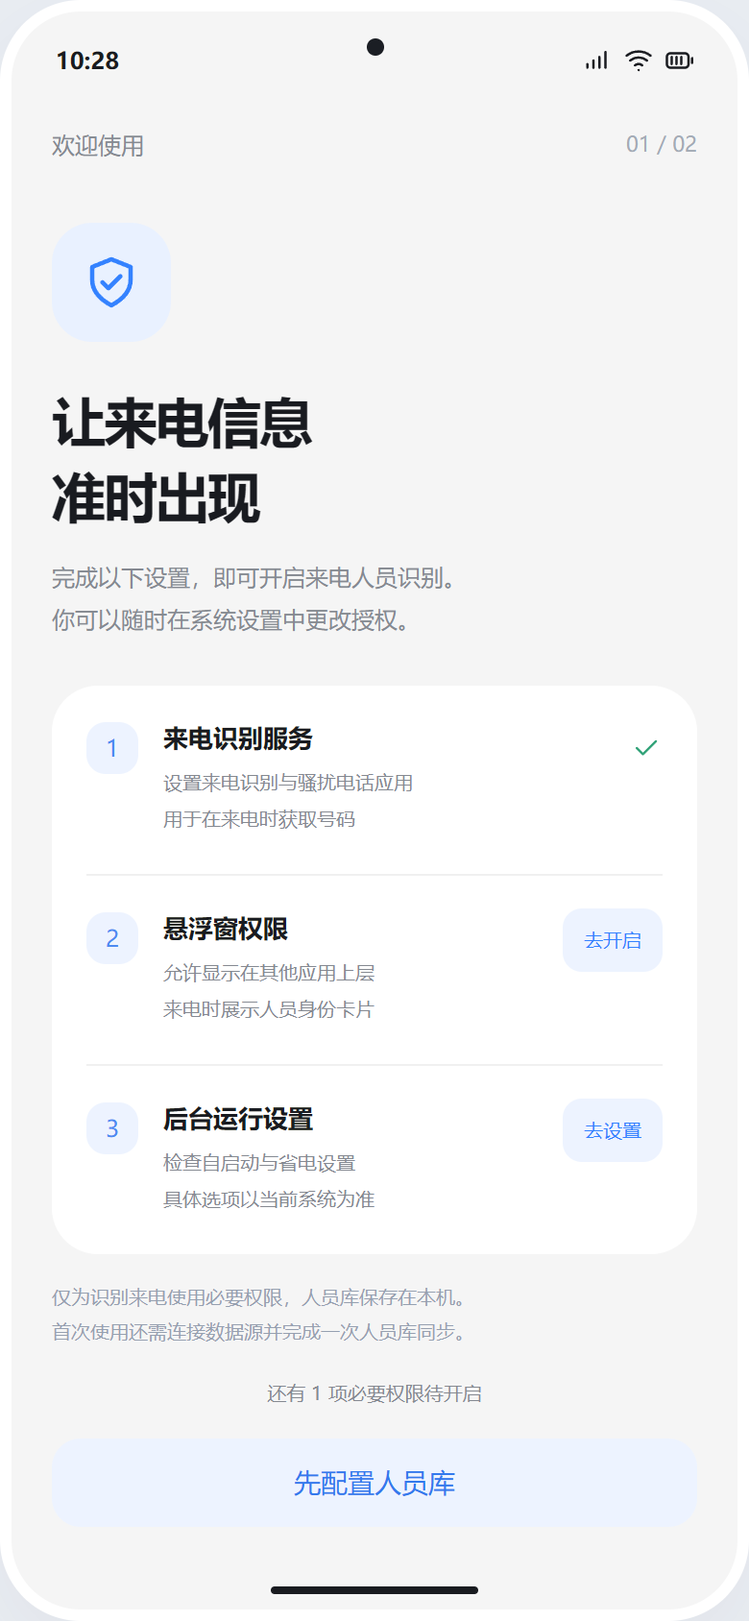
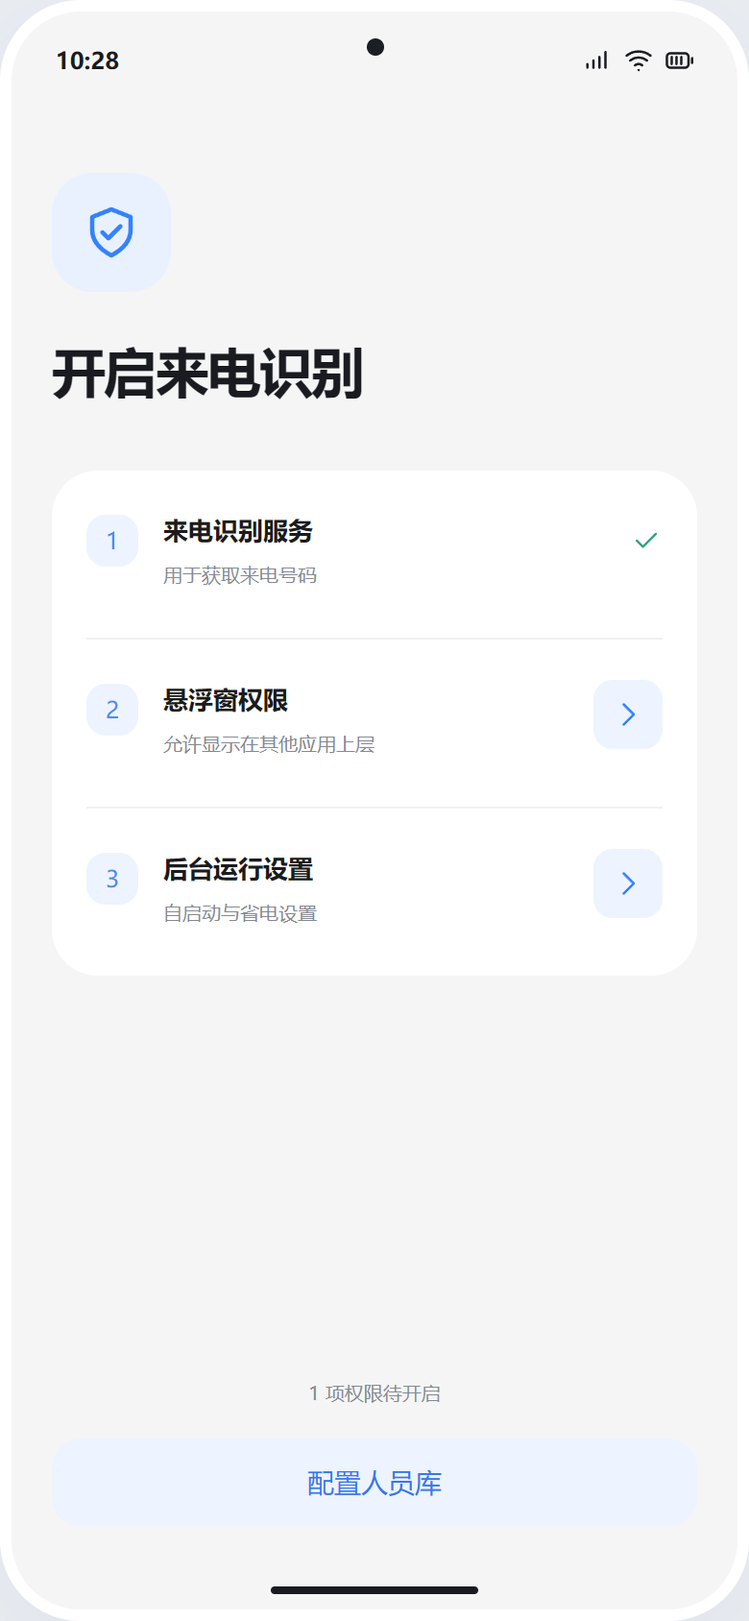
design: 精简界面文案并统一图标交互规范

diff --git a/docs/design/v1/index.html b/docs/design/v1/index.html
@@ -13,35 +13,40 @@
 #sync .backhead{margin-bottom:8px}#sync .subtitle{margin-bottom:15px}#sync .card{padding:17px 19px}#sync .sync-icon{width:46px;height:46px;margin-bottom:8px}#sync .sync-stats{margin:16px 0}#sync .section{margin-top:15px}#sync .setting-row{min-height:50px}#sync .statebox{padding:11px;margin-top:9px}#sync .footnote{margin:10px 0;font-size:9px}
 #appearance .mini-preview{padding:15px 17px 12px;margin-top:12px}#appearance .identity{margin-top:10px}#appearance .company{margin-top:13px}#appearance .setting-row{min-height:50px}#appearance .card{margin-bottom:12px}#appearance .segmented{margin-top:11px}#appearance .range{padding-top:6px}
 #directory .person-line{padding:16px 0}#directory .footnote{margin-top:12px}
+
+.nav{height:78px;align-items:center;padding:10px 17px 23px}.nav button{justify-content:center;min-width:48px;min-height:44px}.nav button.active{background:#eaf2ff}.nav svg{width:24px;height:24px}
+.segmented button{display:flex;justify-content:center;align-items:center;min-height:40px}.hero .iconbtn{color:#3482ff}.floating{padding-bottom:23px}.show-float{left:165px}.caption .iconbtn{margin-left:auto;min-height:24px;padding:0}.caption .iconbtn svg{width:17px;height:17px}.step button{display:flex;align-items:center;justify-content:center;width:36px;height:36px;padding:8px}.step button svg{width:18px;height:18px}
+#home .hero{margin-top:24px;padding:22px}#home .hero-title{margin-top:20px;margin-bottom:0}#home .metrics{margin-top:22px}#home .split{margin:18px 0}#home .section{margin-top:24px}#home .title{margin-top:5px}#home .topline{justify-content:flex-end}
+#directory .title,#appearance .title{margin-top:15px;margin-bottom:22px}#directory .person-line{padding:21px 0}#directory .search{margin-top:22px}#sync .card{margin-top:20px}#sync .sync-stats{margin:25px 0}#sync-button{display:flex;justify-content:center;align-items:center}#appearance .mini-preview{margin-bottom:24px}#appearance .setting-row{min-height:57px}#setup .card{margin-top:32px}#setup .step{padding:23px 0}
 </style>
 </head>
 <body><main class="board">
 <header class="mast"><div><div class="eyebrow">CALLHELPER / ANDROID</div><h1>来电知人<span style="font-weight:300;color:#99a7ba">，</span>一眼知悉。</h1><p>让每一次来电，都有清晰的身份。姓名、岗位、单位，即刻呈现。</p></div><div class="edition"><b>HyperOS × Miuix</b><br>界面设计 V1.0 · 2026.11.07<br>390 × 844 · 全部数据为虚构演示</div></header>
 <div class="grid">
-<section><div class="caption"><span>01</span> 首页 · 识别状态</div><article class="phone" id="home"><div data-status></div><div class="content"><div class="topline">来电识别助手<button class="iconbtn" data-jump="appearance" aria-label="打开设置" data-icon="settings"></button></div><h2 class="title">来电知人</h2><p class="subtitle">熟悉每一个，即将接通的名字。</p><div class="hero"><div class="row"><div class="shield" data-icon="shield"></div><span class="pill" id="home-state">● 已就绪</span></div><div class="hero-title">来电身份，清晰可见</div><div class="small">人员库已就绪，离线也能识别来电</div><button class="primary full" data-jump="incoming"><span data-icon="preview"></span>体验来电悬浮窗</button></div><div class="card" style="margin-top:14px"><div class="row"><span class="label">我的人员库</span><button class="iconbtn" data-jump="sync" aria-label="查看同步" data-icon="arrow"></button></div><div class="metrics"><div><div class="metric">12,860<em>人</em></div><span class="small">已同步人员</span></div><div><div class="metric">128<em>家</em></div><span class="small">覆盖单位</span></div></div><div class="split"></div><div class="row small"><span>今天 09:30 更新</span><span style="color:#31a278">数据已是最新</span></div></div><div class="section">最近识别 <span style="float:right;font-size:10px">仅保存在本机</span></div><div class="card compact"><div class="person-line" style="padding:0"><div class="avatar">林</div><div><b>林知远</b><span class="role">产品负责人</span><div class="small">星河科技有限公司</div></div><span class="recent-time">10:24</span></div></div></div><div data-nav="home"></div><div class="gesture"></div></article></section>
-<section><div class="caption"><span>02</span> 原来电页 + 独立信息悬浮窗</div><article class="phone call" id="incoming"><div data-status></div><div class="content"><div class="call-meta">原有电话 App · 来电背景示意</div><div class="number">138 0000 0001</div><div class="sim">SIM 1 · 中国移动</div><div class="call-orb" data-icon="person"></div></div><div class="floating" id="call-float"><div class="handle"></div><div class="floating-brand"><span><i data-icon="shield"></i>来电知人</span><button aria-label="隐藏本次悬浮窗" id="hide-float" data-icon="close"></button></div><div class="identity"><div class="avatar">林</div><div><div class="name">林知远</div><div class="role-chip">产品负责人</div></div></div><div class="company"><i data-icon="building"></i>星河科技有限公司</div><div class="department">产品中心</div><div class="float-bottom"><span>● 来自本地人员库</span><span>长按拖动位置</span></div></div><button class="show-float" id="show-float">重新显示身份卡片</button><div class="call-actions"><div><button class="reject" data-toast="这是系统来电界面的设计示意" aria-label="系统挂断示意" data-icon="phone"></button><span>挂断</span></div><div><button class="answer" data-toast="这是系统来电界面的设计示意" aria-label="系统接听示意" data-icon="phone"></button><span>接听</span></div></div><div class="system-label">背景为原来电页 · 仅白色卡片属于本应用</div><div class="gesture" style="background:#667e91"></div></article></section>
-<section><div class="caption"><span>03</span> 人员库 · 即搜即查</div><article class="phone directory" id="directory"><div data-status></div><div class="content"><div class="topline">离线查询<span data-icon="people"></span></div><h2 class="title">人员库</h2><div class="search"><i data-icon="search"></i><input id="search" aria-label="搜索姓名、电话号码、单位" placeholder="搜索姓名、电话号码、单位"></div><div class="tabs"><button class="active" data-filter="all">全部人员</button><button data-filter="星河科技">星河科技</button><button data-filter="云杉信息">云杉信息</button></div><div class="row" style="margin:0 7px 12px"><span class="small">演示人员</span><span class="small" id="result-count">4 位</span></div><div class="card" id="people-list"></div><div class="footnote">人员信息由单位人员库同步<br>最近更新于今天 09:30</div></div><div data-nav="directory"></div><div class="gesture"></div></article></section>
-<section><div class="caption"><span>04</span> 数据同步 · 更新与恢复</div><article class="phone" id="sync"><div data-status></div><div class="content"><div class="backhead"><button class="iconbtn" data-jump="home" data-icon="back" aria-label="返回首页"></button>数据管理</div><h2 class="title">数据同步</h2><p class="subtitle">更新一次，来电时随时可用。</p><div class="card"><div class="row"><div class="sync-icon" data-icon="database"></div><span class="pill" id="sync-pill">● 已同步</span></div><div class="sync-title" id="sync-title">人员库已是最新</div><div class="small" id="sync-message">上次同步 · 今天 09:30</div><div class="sync-stats"><div><b>12,860</b><span class="small">人员记录</span></div><div><b>128</b><span class="small">单位</span></div><div><b>2.4<span style="font-size:11px"> MB</span></b><span class="small">数据大小</span></div></div><button class="primary full" id="sync-button">立即同步</button></div><div class="section">同步设置</div><div class="card compact"><div class="setting-row"><div><div class="label">自动同步</div><div class="small">每日检查人员库更新</div></div><button class="switch on" role="switch" aria-checked="true" aria-label="自动同步"></button></div><div class="setting-row"><span class="label">仅在 WLAN 下同步</span><button class="switch on" role="switch" aria-checked="true" aria-label="仅在 WLAN 下同步"></button></div><div class="setting-row"><span class="label">数据源</span><button class="value iconbtn" data-toast="后端接口待对接，当前为设计演示">单位人员服务<i class="chevron" data-icon="arrow"></i></button></div></div><div class="statebox"><i data-icon="info"></i><div><b>更新失败也不影响已有识别</b><br>保留上次可用的人员库，网络恢复后重试。<br><button id="simulate-fail">查看同步失败状态</button></div></div><div class="footnote">加密下载人员库 · 在本机更新识别数据</div></div><div class="gesture"></div></article></section>
-<section><div class="caption"><span>05</span> 显示设置 · 深色预览</div><article class="phone" id="appearance"><div data-status></div><div class="content"><div class="topline">个性化显示<span data-icon="sliders"></span></div><h2 class="title">悬浮窗</h2><p class="subtitle" style="margin-bottom:15px">只展示重要信息，保持恰到好处。</p><div class="mini-preview" id="mini-preview"><div class="floating-brand"><span><i data-icon="shield"></i>来电知人</span><span>预览</span></div><div class="identity"><div class="avatar">林</div><div><div class="name">林知远</div><div class="role-chip" style="color:#8db6fa">产品负责人</div></div></div><div class="company"><i data-icon="building"></i>星河科技有限公司</div><div class="department">产品中心</div></div><div class="footnote" style="margin:8px 0 16px">深色效果预览 · 不影响系统来电界面</div><div class="card compact"><div class="setting-row" style="min-height:46px"><span class="label">显示来电悬浮窗</span><button class="switch on" id="overlay-switch" role="switch" aria-checked="true" aria-label="显示来电悬浮窗"></button></div><div class="split" style="margin:10px 0 13px"></div><span class="label" style="font-size:13px">外观</span><div class="segmented"><button data-theme="system">跟随系统</button><button data-theme="light">浅色</button><button class="active" data-theme="dark">深色</button></div></div><div class="card compact"><div class="row"><span class="label" style="font-size:13px">文字大小</span><span class="small" id="size-label">标准</span></div><div class="range"><span>小</span><input type="range" id="text-size" min="21" max="28" value="23" aria-label="文字大小"><span>大</span></div><div class="setting-row"><span class="label">显示部门</span><button class="switch on" id="department-switch" role="switch" aria-checked="true" aria-label="显示部门"></button></div><div class="setting-row"><div><span class="label">锁屏隐藏详细信息</span><div class="small">解锁后再显示姓名、岗位和单位</div></div><button class="switch on" role="switch" aria-checked="true" aria-label="锁屏隐藏详细信息"></button></div></div></div><div data-nav="appearance"></div><div class="gesture"></div></article></section>
-<section><div class="caption"><span>06</span> 首次使用 · 权限与准备</div><article class="phone" id="setup"><div data-status></div><div class="content"><div class="topline">欢迎使用<span style="font-size:11px;color:#a3aab5">01 / 02</span></div><div class="onboard-mark" data-icon="shield" style="margin-top:28px"></div><h2 class="title" style="font-size:28px">让来电信息<br>准时出现</h2><p class="subtitle" style="margin-top:12px">完成以下设置，即可开启来电人员识别。<br>你可以随时在系统设置中更改授权。</p><div class="card" style="padding:0 18px"><div class="step"><div class="step-index">1</div><div class="step-main"><div class="step-title">来电识别服务</div><div class="small">设置来电识别与骚扰电话应用<br>用于在来电时获取号码</div></div><div class="done" data-icon="check"></div></div><div class="step"><div class="step-index">2</div><div class="step-main"><div class="step-title">悬浮窗权限</div><div class="small">允许显示在其他应用上层<br>来电时展示人员身份卡片</div></div><button data-toast="原生应用将在此打开系统悬浮窗授权页">去开启</button></div><div class="step"><div class="step-index">3</div><div class="step-main"><div class="step-title">后台运行设置</div><div class="small">检查自启动与省电设置<br>具体选项以当前系统为准</div></div><button data-toast="原生应用将在此引导检查系统后台运行设置">去设置</button></div></div><div class="demo-note">仅为识别来电使用必要权限，人员库保存在本机。<br>首次使用还需连接数据源并完成一次人员库同步。</div></div><div class="bottom-cta"><div class="small">还有 1 项必要权限待开启</div><button class="secondary full" data-jump="sync">先配置人员库</button></div><div class="gesture"></div></article></section>
+<section><div class="caption"><span>01</span> 首页 · 识别状态</div><article class="phone" id="home"><div data-status></div><div class="content"><div class="topline"><button class="iconbtn" data-jump="appearance" aria-label="打开设置" data-icon="settings"></button></div><h2 class="title">来电知人</h2><div class="hero"><div class="row"><div class="shield" data-icon="shield"></div><button class="iconbtn" data-jump="incoming" aria-label="预览悬浮窗" title="预览悬浮窗" data-icon="preview"></button></div><div class="hero-title" id="home-state">识别已开启</div></div><div class="card" style="margin-top:14px"><div class="row"><span class="label">人员库</span><button class="iconbtn" data-jump="sync" aria-label="查看同步" data-icon="arrow"></button></div><div class="metrics"><div><div class="metric">12,860</div><span class="small">人员</span></div><div><div class="metric">128</div><span class="small">单位</span></div></div><div class="split"></div><div class="row small"><span>今天 09:30 更新</span><span style="color:#31a278" aria-label="已同步" title="已同步" data-icon="check"></span></div></div><div class="section">最近识别 </div><div class="card compact"><div class="person-line" style="padding:0"><div class="avatar">林</div><div><b>林知远</b><span class="role">产品负责人</span><div class="small">星河科技有限公司</div></div><span class="recent-time">10:24</span></div></div></div><div data-nav="home"></div><div class="gesture"></div></article></section>
+<section><div class="caption"><span>02</span> 原来电页 + 独立信息悬浮窗</div><article class="phone call" id="incoming"><div data-status></div><div class="content"><div class="call-meta">原有电话 App · 来电背景示意</div><div class="number">138 0000 0001</div><div class="sim">SIM 1 · 中国移动</div><div class="call-orb" data-icon="person"></div></div><div class="floating" id="call-float"><div class="handle"></div><div class="floating-brand"><span aria-label="来电知人" title="来电知人"><i data-icon="shield"></i></span><button aria-label="隐藏本次悬浮窗" id="hide-float" data-icon="close"></button></div><div class="identity"><div class="avatar">林</div><div><div class="name">林知远</div><div class="role-chip">产品负责人</div></div></div><div class="company"><i data-icon="building"></i>星河科技有限公司</div><div class="department">产品中心</div></div><button class="show-float" id="show-float" aria-label="重新显示身份卡片" title="重新显示身份卡片" data-icon="person"></button><div class="call-actions"><div><button class="reject" data-toast="这是系统来电界面的设计示意" aria-label="系统挂断示意" data-icon="phone"></button></div><div><button class="answer" data-toast="这是系统来电界面的设计示意" aria-label="系统接听示意" data-icon="phone"></button></div></div><div class="system-label">背景为原来电页 · 仅白色卡片属于本应用</div><div class="gesture" style="background:#667e91"></div></article></section>
+<section><div class="caption"><span>03</span> 人员库 · 即搜即查</div><article class="phone directory" id="directory"><div data-status></div><div class="content"><h2 class="title">人员库</h2><div class="search"><i data-icon="search"></i><input id="search" aria-label="搜索姓名、电话号码、单位" placeholder="搜索姓名、电话号码、单位"></div><div class="tabs"><button class="active" data-filter="all">全部人员</button><button data-filter="星河科技">星河科技</button><button data-filter="云杉信息">云杉信息</button></div><div class="row" style="margin:0 7px 12px"><span class="small" aria-label="人员" data-icon="people"></span><span class="small" id="result-count">4 位</span></div><div class="card" id="people-list"></div></div><div data-nav="directory"></div><div class="gesture"></div></article></section>
+<section><div class="caption"><span>04</span> 数据同步 · 更新与恢复<button class="iconbtn" id="simulate-fail" aria-label="预览同步失败" title="预览同步失败" data-icon="info"></button></div><article class="phone" id="sync"><div data-status></div><div class="content"><div class="backhead"><button class="iconbtn" data-jump="home" data-icon="back" aria-label="返回首页"></button></div><h2 class="title">数据同步</h2><div class="card"><div class="row"><div class="sync-icon" data-icon="database"></div><span class="pill" id="sync-pill" aria-label="已同步" data-icon="check"></span></div><div class="sync-title" id="sync-title">已同步</div><div class="small" id="sync-message">今天 09:30</div><div class="sync-stats"><div><b>12,860</b><span class="small">人员记录</span></div><div><b>128</b><span class="small">单位</span></div><div><b>2.4<span style="font-size:11px"> MB</span></b><span class="small">数据大小</span></div></div><button class="primary full" id="sync-button" aria-label="立即同步" title="立即同步" data-icon="refresh"></button></div><div class="section">同步设置</div><div class="card compact"><div class="setting-row"><div><div class="label">自动同步</div></div><button class="switch on" role="switch" aria-checked="true" aria-label="自动同步"></button></div><div class="setting-row"><span class="label">仅在 WLAN 下同步</span><button class="switch on" role="switch" aria-checked="true" aria-label="仅在 WLAN 下同步"></button></div><div class="setting-row"><span class="label">数据源</span><button class="value iconbtn" data-toast="后端接口待对接，当前为设计演示">单位人员服务<i class="chevron" data-icon="arrow"></i></button></div></div></div><div class="gesture"></div></article></section>
+<section><div class="caption"><span>05</span> 显示设置 · 深色预览</div><article class="phone" id="appearance"><div data-status></div><div class="content"><h2 class="title">悬浮窗</h2><div class="mini-preview" id="mini-preview"><div class="floating-brand"><span aria-label="来电知人" title="来电知人"><i data-icon="shield"></i></span><span aria-label="预览" title="预览" data-icon="preview"></span></div><div class="identity"><div class="avatar">林</div><div><div class="name">林知远</div><div class="role-chip" style="color:#8db6fa">产品负责人</div></div></div><div class="company"><i data-icon="building"></i>星河科技有限公司</div><div class="department">产品中心</div></div><div class="card compact"><div class="setting-row" style="min-height:46px"><span class="label">显示来电悬浮窗</span><button class="switch on" id="overlay-switch" role="switch" aria-checked="true" aria-label="显示来电悬浮窗"></button></div><div class="split" style="margin:10px 0 13px"></div><span class="label" style="font-size:13px">外观</span><div class="segmented"><button data-theme="system" aria-label="跟随系统" title="跟随系统" data-icon="system"></button><button data-theme="light" aria-label="浅色" title="浅色" data-icon="sun"></button><button class="active" data-theme="dark" aria-label="深色" title="深色" data-icon="moon"></button></div></div><div class="card compact"><div class="row"><span class="label" style="font-size:13px">文字大小</span><span class="small" id="size-label">标准</span></div><div class="range"><span>小</span><input type="range" id="text-size" min="21" max="28" value="23" aria-label="文字大小"><span>大</span></div><div class="setting-row"><span class="label">显示部门</span><button class="switch on" id="department-switch" role="switch" aria-checked="true" aria-label="显示部门"></button></div><div class="setting-row"><div><span class="label">锁屏隐藏详细信息</span></div><button class="switch on" role="switch" aria-checked="true" aria-label="锁屏隐藏详细信息"></button></div></div></div><div data-nav="appearance"></div><div class="gesture"></div></article></section>
+<section><div class="caption"><span>06</span> 首次使用 · 权限与准备</div><article class="phone" id="setup"><div data-status></div><div class="content"><div class="onboard-mark" data-icon="shield" style="margin-top:28px"></div><h2 class="title" style="font-size:28px">开启来电识别</h2><div class="card" style="padding:0 18px"><div class="step"><div class="step-index">1</div><div class="step-main"><div class="step-title">来电识别服务</div><div class="small">用于获取来电号码</div></div><div class="done" data-icon="check"></div></div><div class="step"><div class="step-index">2</div><div class="step-main"><div class="step-title">悬浮窗权限</div><div class="small">允许显示在其他应用上层</div></div><button data-toast="原生应用将在此打开系统悬浮窗授权页" aria-label="开启悬浮窗权限" title="开启悬浮窗权限" data-icon="arrow"></button></div><div class="step"><div class="step-index">3</div><div class="step-main"><div class="step-title">后台运行设置</div><div class="small">自启动与省电设置</div></div><button data-toast="原生应用将在此引导检查系统后台运行设置" aria-label="设置后台运行" title="设置后台运行" data-icon="arrow"></button></div></div></div><div class="bottom-cta"><div class="small">1 项权限待开启</div><button class="secondary full" data-jump="sync">配置人员库</button></div><div class="gesture"></div></article></section>
 </div><footer class="boardfooter"><span>大标题 / 柔和圆角 / 安静的蓝 / 明确的信息层级</span><span>设计原型 · 非 APK · 非真实来电记录</span></footer>
 </main>
 <script>
-const paths={shield:'<path d="M12 3 4.5 6v5c0 4.6 3.2 7.7 7.5 10 4.3-2.3 7.5-5.4 7.5-10V6Z"/><path d="m8.5 12 2.3 2.3 4.7-4.7"/>',settings:'<path d="m9 3-1 3-3 1-2 3 2 2-1 3 3 2 2 3h4l2-3 3-1 2-3-2-2 1-3-3-2-2-3Z"/><circle cx="11" cy="11" r="3"/>',arrow:'<path d="m9 5 7 7-7 7"/>',back:'<path d="m15 5-7 7 7 7"/>',preview:'<rect x="3" y="5" width="18" height="14" rx="4"/><path d="m10 9 5 3-5 3Z"/>',home:'<path d="m3 10 9-7 9 7v10a1 1 0 0 1-1 1h-5v-7H9v7H4a1 1 0 0 1-1-1Z"/>',people:'<circle cx="9" cy="8" r="3"/><path d="M3 21v-3a6 6 0 0 1 12 0v3M16 5a3 3 0 0 1 0 6M18 15a5 5 0 0 1 3 5"/>',database:'<ellipse cx="12" cy="5" rx="8" ry="3"/><path d="M4 5v14c0 4 16 4 16 0V5M4 12c0 4 16 4 16 0"/>',phone:'<path d="m6 3 4 5-3 3c2 3 3 4 6 6l3-3 5 4c-1 4-4 5-7 3C7 18 2 13 2 7c0-2 2-4 4-4Z"/>',person:'<circle cx="12" cy="8" r="4"/><path d="M4 22v-3a8 8 0 0 1 16 0v3"/>',close:'<path d="m6 6 12 12M6 18 18 6"/>',building:'<path d="M4 21V4h11v17M15 10h5v11M2 21h20M8 8h3M8 12h3M8 16h3"/>',search:'<circle cx="10.5" cy="10.5" r="6.5"/><path d="m16 16 5 5"/>',info:'<circle cx="12" cy="12" r="9"/><path d="M12 11v5M12 7v.1"/>',check:'<path d="m5 12 4.5 4.5L19 7"/>',sliders:'<path d="M4 7h16M4 17h16"/><circle cx="9" cy="7" r="3" fill="currentColor" stroke="none"/><circle cx="16" cy="17" r="3" fill="currentColor" stroke="none"/>',signal:'<path d="M3 18v-3M8 18v-6M13 18V9M18 18V5"/>',wifi:'<path d="M2 8a16 16 0 0 1 20 0M5 12a11 11 0 0 1 14 0M9 16a5 5 0 0 1 6 0M12 20h.1"/>',battery:'<rect x="2" y="6" width="18" height="12" rx="3"/><path d="M23 10v4M6 9v6M10 9v6M14 9v6"/>'};
+const paths={refresh:'<path d="M20 7v5h-5M4 17v-5h5M5 7a8 8 0 0 1 13-2l2 3M4 16l2 3a8 8 0 0 0 13-2"/>',system:'<rect x="3" y="4" width="18" height="13" rx="3"/><path d="M8 21h8M12 17v4"/>',sun:'<circle cx="12" cy="12" r="4"/><path d="M12 2v2M12 20v2M2 12h2M20 12h2M5 5l1.5 1.5M17.5 17.5 19 19M5 19l1.5-1.5M17.5 6.5 19 5"/>',moon:'<path d="M20 14a8 8 0 0 1-10-10 8.5 8.5 0 1 0 10 10Z"/>',shield:'<path d="M12 3 4.5 6v5c0 4.6 3.2 7.7 7.5 10 4.3-2.3 7.5-5.4 7.5-10V6Z"/><path d="m8.5 12 2.3 2.3 4.7-4.7"/>',settings:'<path d="m9 3-1 3-3 1-2 3 2 2-1 3 3 2 2 3h4l2-3 3-1 2-3-2-2 1-3-3-2-2-3Z"/><circle cx="11" cy="11" r="3"/>',arrow:'<path d="m9 5 7 7-7 7"/>',back:'<path d="m15 5-7 7 7 7"/>',preview:'<rect x="3" y="5" width="18" height="14" rx="4"/><path d="m10 9 5 3-5 3Z"/>',home:'<path d="m3 10 9-7 9 7v10a1 1 0 0 1-1 1h-5v-7H9v7H4a1 1 0 0 1-1-1Z"/>',people:'<circle cx="9" cy="8" r="3"/><path d="M3 21v-3a6 6 0 0 1 12 0v3M16 5a3 3 0 0 1 0 6M18 15a5 5 0 0 1 3 5"/>',database:'<ellipse cx="12" cy="5" rx="8" ry="3"/><path d="M4 5v14c0 4 16 4 16 0V5M4 12c0 4 16 4 16 0"/>',phone:'<path d="m6 3 4 5-3 3c2 3 3 4 6 6l3-3 5 4c-1 4-4 5-7 3C7 18 2 13 2 7c0-2 2-4 4-4Z"/>',person:'<circle cx="12" cy="8" r="4"/><path d="M4 22v-3a8 8 0 0 1 16 0v3"/>',close:'<path d="m6 6 12 12M6 18 18 6"/>',building:'<path d="M4 21V4h11v17M15 10h5v11M2 21h20M8 8h3M8 12h3M8 16h3"/>',search:'<circle cx="10.5" cy="10.5" r="6.5"/><path d="m16 16 5 5"/>',info:'<circle cx="12" cy="12" r="9"/><path d="M12 11v5M12 7v.1"/>',check:'<path d="m5 12 4.5 4.5L19 7"/>',sliders:'<path d="M4 7h16M4 17h16"/><circle cx="9" cy="7" r="3" fill="currentColor" stroke="none"/><circle cx="16" cy="17" r="3" fill="currentColor" stroke="none"/>',signal:'<path d="M3 18v-3M8 18v-6M13 18V9M18 18V5"/>',wifi:'<path d="M2 8a16 16 0 0 1 20 0M5 12a11 11 0 0 1 14 0M9 16a5 5 0 0 1 6 0M12 20h.1"/>',battery:'<rect x="2" y="6" width="18" height="12" rx="3"/><path d="M23 10v4M6 9v6M10 9v6M14 9v6"/>'};
 function icon(n){return `<svg viewBox="0 0 24 24" aria-hidden="true">${paths[n]||paths.info}</svg>`}
 document.querySelectorAll('[data-status]').forEach(el=>el.outerHTML=`<div class="status"><span>10:28</span><span class="symbols">${icon('signal')}${icon('wifi')}${icon('battery')}</span></div><div class="camera"></div>`);
-document.querySelectorAll('[data-nav]').forEach(el=>{let current=el.dataset.nav;el.outerHTML=`<nav class="nav" aria-label="底部导航">${[['home','home','首页'],['directory','people','人员库'],['sync','database','同步'],['appearance','settings','设置']].map(([id,ic,t])=>`<button data-jump="${id}" class="${current===id?'active':''}">${icon(ic)}${t}</button>`).join('')}</nav>`});
+document.querySelectorAll('[data-nav]').forEach(el=>{let current=el.dataset.nav;el.outerHTML=`<nav class="nav" aria-label="底部导航">${[['home','home','首页'],['directory','people','人员库'],['sync','database','同步'],['appearance','settings','设置']].map(([id,ic,t])=>`<button data-jump="${id}" aria-label="${t}" title="${t}" class="${current===id?'active':''}">${icon(ic)}</button>`).join('')}</nav>`});
 document.querySelectorAll('[data-icon]').forEach(el=>el.innerHTML=icon(el.dataset.icon));
 const people=[['林知远','产品负责人','星河科技有限公司','产品中心','13800000001',''],['陈亦宁','人事经理','星河科技有限公司','人力资源部','13800000002','mint'],['周予安','技术总监','云杉信息有限公司','研发中心','13800000003','lilac'],['许清和','项目经理','远山设计有限公司','项目管理部','13800000004','mint']];
-let orgFilter='all';function renderPeople(){let q=document.querySelector('#search').value.trim().toLowerCase();let list=people.filter(p=>p.join(' ').toLowerCase().includes(q)&&(orgFilter==='all'||p[2].includes(orgFilter)));document.querySelector('#people-list').innerHTML=list.map(p=>`<div class="person-line"><div class="avatar ${p[5]}">${p[0][0]}</div><div><b>${p[0]}</b><span class="role">${p[1]}</span><div class="org">${p[2]}</div><span class="tag">${p[3]}</span></div></div>`).join('')||'<div class="empty">未找到相关人员<br><br>试试其他姓名、号码或单位</div>';document.querySelector('#result-count').textContent=list.length+' 位'}renderPeople();document.querySelector('#search').addEventListener('input',renderPeople);
+let orgFilter='all';function renderPeople(){let q=document.querySelector('#search').value.trim().toLowerCase();let list=people.filter(p=>p.join(' ').toLowerCase().includes(q)&&(orgFilter==='all'||p[2].includes(orgFilter)));document.querySelector('#people-list').innerHTML=list.map(p=>`<div class="person-line"><div class="avatar ${p[5]}">${p[0][0]}</div><div><b>${p[0]}</b><span class="role">${p[1]}</span><div class="org">${p[2]}</div><span class="tag">${p[3]}</span></div></div>`).join('')||'<div class="empty">未找到相关人员</div>';document.querySelector('#result-count').textContent=list.length+' 位'}renderPeople();document.querySelector('#search').addEventListener('input',renderPeople);
 document.querySelectorAll('[data-filter]').forEach(b=>b.onclick=()=>{orgFilter=b.dataset.filter;document.querySelectorAll('[data-filter]').forEach(x=>x.classList.toggle('active',x===b));renderPeople()});
 function toast(el,msg){let phone=el.closest('.phone');phone.querySelector('.toast')?.remove();let t=document.createElement('div');t.className='toast';t.textContent=msg;t.setAttribute('role','status');phone.append(t);setTimeout(()=>t.remove(),2600)}
 document.querySelectorAll('[data-toast]').forEach(b=>b.onclick=()=>toast(b,b.dataset.toast));
 document.querySelectorAll('[data-jump]').forEach(b=>b.onclick=()=>{let t=document.getElementById(b.dataset.jump);t.scrollIntoView({behavior:'smooth',block:'center'});t.animate([{boxShadow:'0 0 0 4px #3482ff60'},{boxShadow:'0 14px 40px #20334d0c'}],{duration:900})});
 document.querySelector('#hide-float').onclick=()=>document.querySelector('#call-float').classList.add('hidden');document.querySelector('#show-float').onclick=()=>document.querySelector('#call-float').classList.remove('hidden');
-document.querySelectorAll('.switch').forEach(b=>b.onclick=()=>{let on=!b.classList.contains('on');b.classList.toggle('on',on);b.setAttribute('aria-checked',String(on));if(b.id==='department-switch')document.querySelector('#mini-preview .department').hidden=!on;if(b.id==='overlay-switch'){document.querySelector('#call-float').classList.toggle('hidden',!on);document.querySelector('#home-state').textContent=on?'● 已就绪':'已暂停';toast(b,on?'已开启悬浮窗 · 演示':'已暂停悬浮窗 · 演示')}});
-document.querySelectorAll('[data-theme]').forEach(b=>b.onclick=()=>{document.querySelectorAll('[data-theme]').forEach(x=>x.classList.toggle('active',x===b));let light=b.dataset.theme==='light'||b.dataset.theme==='system'&&!matchMedia('(prefers-color-scheme: dark)').matches;document.querySelector('#mini-preview').classList.toggle('light-preview',light);document.querySelector('#mini-preview + .footnote').textContent=(b.dataset.theme==='system'?'跟随系统':light?'浅色效果预览':'深色效果预览')+' · 不影响系统来电界面'});
+document.querySelectorAll('.switch').forEach(b=>b.onclick=()=>{let on=!b.classList.contains('on');b.classList.toggle('on',on);b.setAttribute('aria-checked',String(on));if(b.id==='department-switch')document.querySelector('#mini-preview .department').hidden=!on;if(b.id==='overlay-switch'){document.querySelector('#call-float').classList.toggle('hidden',!on);document.querySelector('#home-state').textContent=on?'识别已开启':'已暂停';toast(b,on?'已开启悬浮窗 · 演示':'已暂停悬浮窗 · 演示')}});
+document.querySelectorAll('[data-theme]').forEach(b=>b.onclick=()=>{document.querySelectorAll('[data-theme]').forEach(x=>x.classList.toggle('active',x===b));let light=b.dataset.theme==='light'||b.dataset.theme==='system'&&!matchMedia('(prefers-color-scheme: dark)').matches;document.querySelector('#mini-preview').classList.toggle('light-preview',light);document.querySelector('#mini-preview').setAttribute('aria-label',light?'浅色预览':'深色预览')});
 document.querySelector('#text-size').oninput=e=>{document.querySelector('#mini-preview .name').style.fontSize=e.target.value+'px';document.querySelector('#size-label').textContent=e.target.value<23?'较小':e.target.value>24?'较大':'标准'};
-let syncTimer;function syncState(failed){clearTimeout(syncTimer);document.querySelector('#sync-title').textContent=failed?'本次同步未完成':'人员库已是最新';document.querySelector('#sync-message').textContent=failed?'网络连接失败 · 仍使用今天 09:30 的人员库':'上次同步 · 刚刚';document.querySelector('#sync-pill').textContent=failed?'● 更新失败':'● 已同步';document.querySelector('#sync-pill').style.cssText=failed?'background:#fff1e8;color:#b87546':'';let b=document.querySelector('#sync-button');b.disabled=false;b.textContent=failed?'重试同步':'立即同步'}
-document.querySelector('#sync-button').onclick=()=>{let b=document.querySelector('#sync-button');b.disabled=true;b.textContent='正在同步…';document.querySelector('#sync-title').textContent='正在更新人员库';document.querySelector('#sync-message').textContent='设计演示：下载 → 校验 → 导入';syncTimer=setTimeout(()=>syncState(false),1400)};document.querySelector('#simulate-fail').onclick=()=>syncState(true);
+let syncTimer;function syncState(failed){clearTimeout(syncTimer);document.querySelector('#sync-title').textContent=failed?'同步失败':'已同步';document.querySelector('#sync-message').textContent=failed?'网络不可用 · 沿用 09:30 数据':'刚刚';document.querySelector('#sync-pill').innerHTML=icon(failed?'info':'check');document.querySelector('#sync-pill').setAttribute('aria-label',failed?'同步失败':'已同步');document.querySelector('#sync-pill').style.cssText=failed?'background:#fff1e8;color:#b87546':'';let b=document.querySelector('#sync-button');b.disabled=false;b.innerHTML=icon('refresh');b.setAttribute('aria-label',failed?'重试同步':'立即同步');b.title=failed?'重试同步':'立即同步'}
+document.querySelector('#sync-button').onclick=()=>{let b=document.querySelector('#sync-button');b.disabled=true;b.innerHTML=icon('refresh');b.setAttribute('aria-label','正在同步');document.querySelector('#sync-title').textContent='正在同步';document.querySelector('#sync-message').textContent='正在下载';syncTimer=setTimeout(()=>syncState(false),1400)};document.querySelector('#simulate-fail').onclick=()=>syncState(true);
 </script></body></html>

diff --git a/scripts/render_design.py b/scripts/render_design.py
@@ -46,10 +46,10 @@ def main():
         assert not page.locator('#mini-preview .department').is_visible()
         page.locator('#department-switch').click()
         page.locator('#simulate-fail').click()
-        assert '未完成' in page.locator('#sync-title').inner_text()
+        assert '失败' in page.locator('#sync-title').inner_text()
         page.locator('#sync').screenshot(path=str(OUT / 'screens/sync-failed.png'))
         page.locator('#sync-button').click()
-        page.wait_for_function("document.querySelector('#sync-title').textContent === '人员库已是最新'")
+        page.wait_for_function("document.querySelector('#sync-title').textContent === '已同步'")
         page.locator('#overlay-switch').click()
         assert page.locator('#home-state').inner_text() == '已暂停'
         page.locator('#overlay-switch').click()

diff --git a/docs/design/v1/DESIGN.md b/docs/design/v1/DESIGN.md
@@ -22,6 +22,12 @@
 
 ## 视觉规范
 
+### 文案精简规则
+
+移除不必要的文本；能用清晰图标表示的操作使用图标；标题和控件含义明确时不再追加解释性小字。保留姓名、岗位、单位等核心信息、更新时间、必要错误原因和简短权限用途。纯图标按钮提供无障碍名称及悬停提示。
+
+本次调整移除页面宣传语、重复状态和浮窗操作说明；导航、主题选择、同步、预览与授权入口采用图标；同步失败预览入口移至设计板标题旁，不放入产品界面。人员信息字段保持完整。
+
 设计尺寸 390 × 844 逻辑像素，外边框只用于设计展示，实际布局以设备可用空间与系统 Insets 为准。字体首选系统 MiSans，未安装时回退系统中文字体，设计图使用本机可用字体。字号、圆角均为初始设计值，不宣称是 Miuix 官方默认值。
 
 | 项目 | 设计值 |

diff --git a/AGENTS.md b/AGENTS.md
@@ -1,1 +1,6 @@
 Git 提交消息使用简体中文编写并符合约定式提交规范。
+
+## UI 设计约束
+
+- 移除不必要的文本；能用清晰图标表示的，不使用可见文本；含义已明确的文本不再额外添加一行小字注释。
+- 保留核心业务信息、必要状态与授权说明；图标按钮保留无障碍名称，避免含义不明。
